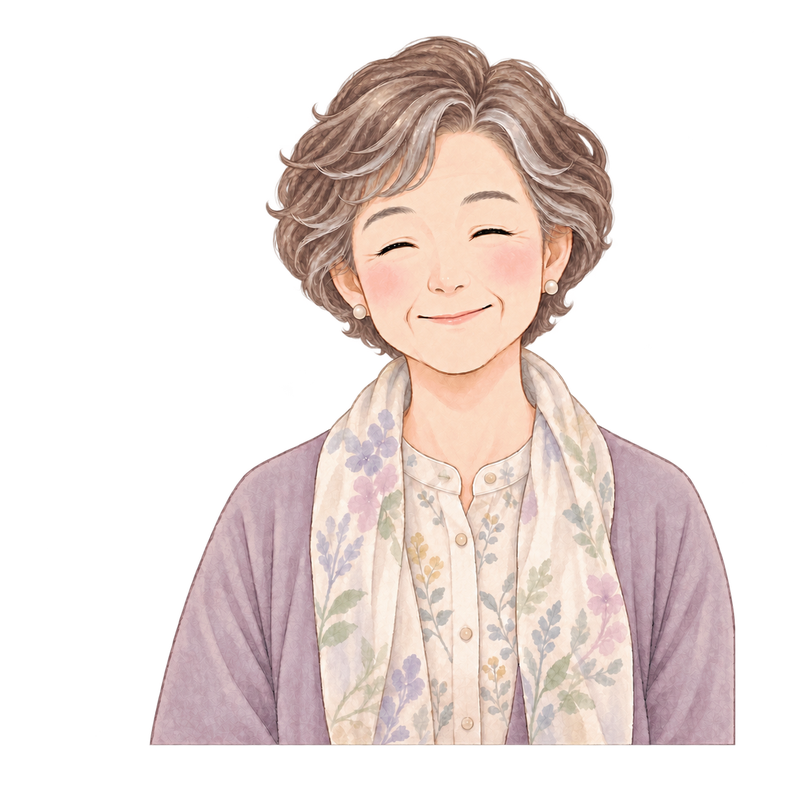
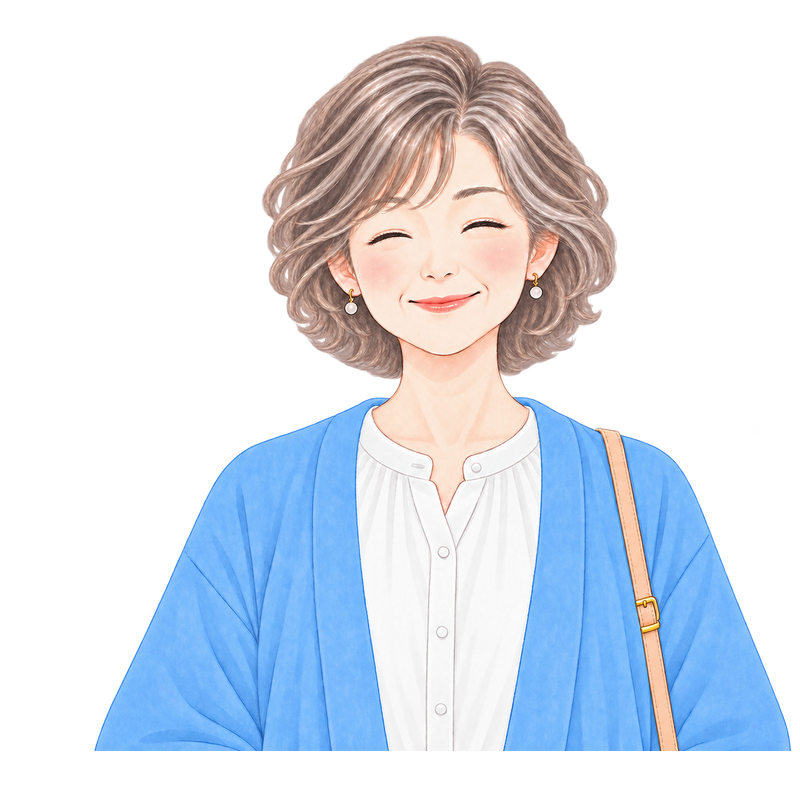
feat: customer-06のnormal/blinkをゆきこさんの年齢感に合う画像へ差し替え、customer-01/02の依頼内容を変更
- customer-06: 若く見える差し替え候補から、白髪・グレーヘアを混ぜた60代前半の
  女性画像に再差し替え。既存のゆきこさん（旧友の還暦祝い）の年齢設定と画像が
  一致するように統一。頭頂部・肩の切れなし、normal/blinkの位置・大きさ一致、
  瞬き時のガタつきなし、4季表示を確認済み。
- customer-01（はるかさん）: purposeを「誕生日プレゼント（同僚へ）」から
  「恩師への感謝」に変更。
- customer-02（さやかさん）: ageを20代から30代に、purposeを「恩師への感謝」から
  「同僚への誕生日プレゼント」に変更。

Claude-Session: https://claude.ai/code/session_01NKV57SwEiDA72EkGzXeu8N

diff --git a/src/data/customers.ts b/src/data/customers.ts
@@ -84,17 +84,17 @@ export const CUSTOMERS: Customer[] = [
     age: '20代',
     persona: 'よく笑う同僚。ビタミンカラーの服',
     entrance: '仕事帰りのようで、鞄を抱えたまま、少し急いで入ってきました。',
-    life: '来週、同じ部署の同僚の誕生日。毎年こっそりお祝いしています。',
+    life: '大学時代の恩師が、今年で退職されるそうです。',
     memo: [
-      '明るく笑う人なんです。',
-      'そばにいると、こっちまで元気になる子で。',
+      'ずっと励ましてくれた先生なんです。',
+      '明るく、元気の出るような形で伝えたくて。',
     ],
     lines: [
-      '同僚の誕生日プレゼントにしたくて。',
-      'あの子、笑うと本当に元気が出る子なんです。',
-      '明るくて、元気が出るようなブーケをお願いできますか。',
+      'お世話になった先生に、お礼を渡したくて。',
+      '就職してからも、ずっと気にかけてくださった方なんです。',
+      '先生が笑ってくれるような、元気の出る花にできますか。',
     ],
-    purpose: '誕生日プレゼント（同僚へ）',
+    purpose: '恩師への感謝',
     budget: 2000,
     wish: {
       impressions: ['bright', 'lively'],
@@ -105,37 +105,37 @@ export const CUSTOMERS: Customer[] = [
     reactions: {
       delighted: [
         'わぁ……！ とっても素敵です。',
-        'これ、あの子の顔が浮かびました。きっと喜びます。',
+        '先生、こういうの見たら笑ってくれると思います。',
       ],
       happy: [
         'かわいい……！ 想像していたより明るいです。',
-        'これを渡したら、あの子どんな顔するかな。',
+        'これを渡したら、先生どんな顔するかな。',
       ],
       grateful: [
         'ありがとうございます。ちゃんと気持ちが入ってる感じがします。',
         '選んでくださる時間そのものが、うれしかったです。',
       ],
     },
-    farewell: 'また、なにかお祝いのときに寄らせてください。',
+    farewell: '報告に、また寄りますね。',
   },
   {
     id: 'customer-02',
     name: 'さやかさん',
-    age: '20代',
+    age: '30代',
     persona: '落ち着いた雰囲気の女性',
     entrance: '静かに扉を開けて、しばらく花を眺めてから声をかけてくれました。',
-    life: '大学の恩師が、今年で退官されるそうです。',
+    life: '同じ職場の同僚が、来週誕生日を迎えるそうです。',
     memo: [
-      '四年間、ずっと見守ってくださって。',
-      '派手なのは、お好きじゃない先生です。',
+      '来週、誕生日の同僚がいて。',
+      '派手すぎない、でも気持ちが伝わるものがいいなと。',
     ],
     lines: [
-      'お世話になった先生に、お礼を渡したくて。',
-      '四年間、ずっと見守ってくださった方なんです。',
-      '落ち着いた、きちんとした花束にできますか。',
+      '同僚の誕生日プレゼントにしたくて。',
+      '普段からお世話になっている人なんです。',
+      '派手すぎない、でもきちんと気持ちが伝わる花にできますか。',
     ],
-    purpose: '恩師への感謝',
-    budget: 3200,
+    purpose: '同僚への誕生日プレゼント',
+    budget: 2400,
     wish: {
       impressions: ['elegant', 'calm'],
       tones: ['cool', 'white'],
@@ -144,8 +144,8 @@ export const CUSTOMERS: Customer[] = [
     },
     reactions: {
       delighted: [
-        'ありがとうございます。……先生、こういうの好きだと思います。',
-        '四年分の気持ちが、ちゃんと形になりました。',
+        'ありがとうございます。……あの人、こういうの好きだと思います。',
+        '普段なかなか言えない気持ちが、ちゃんと形になりました。',
       ],
       happy: [
         'きれいですね。渡すときのこと、考えてしまいます。',
@@ -156,7 +156,7 @@ export const CUSTOMERS: Customer[] = [
         '選んでいる時間に、いろいろ思い出しました。',
       ],
     },
-    farewell: '報告に、また寄りますね。',
+    farewell: 'また、なにかお祝いのときに寄らせてください。',
   },
   {
     id: 'customer-03',
